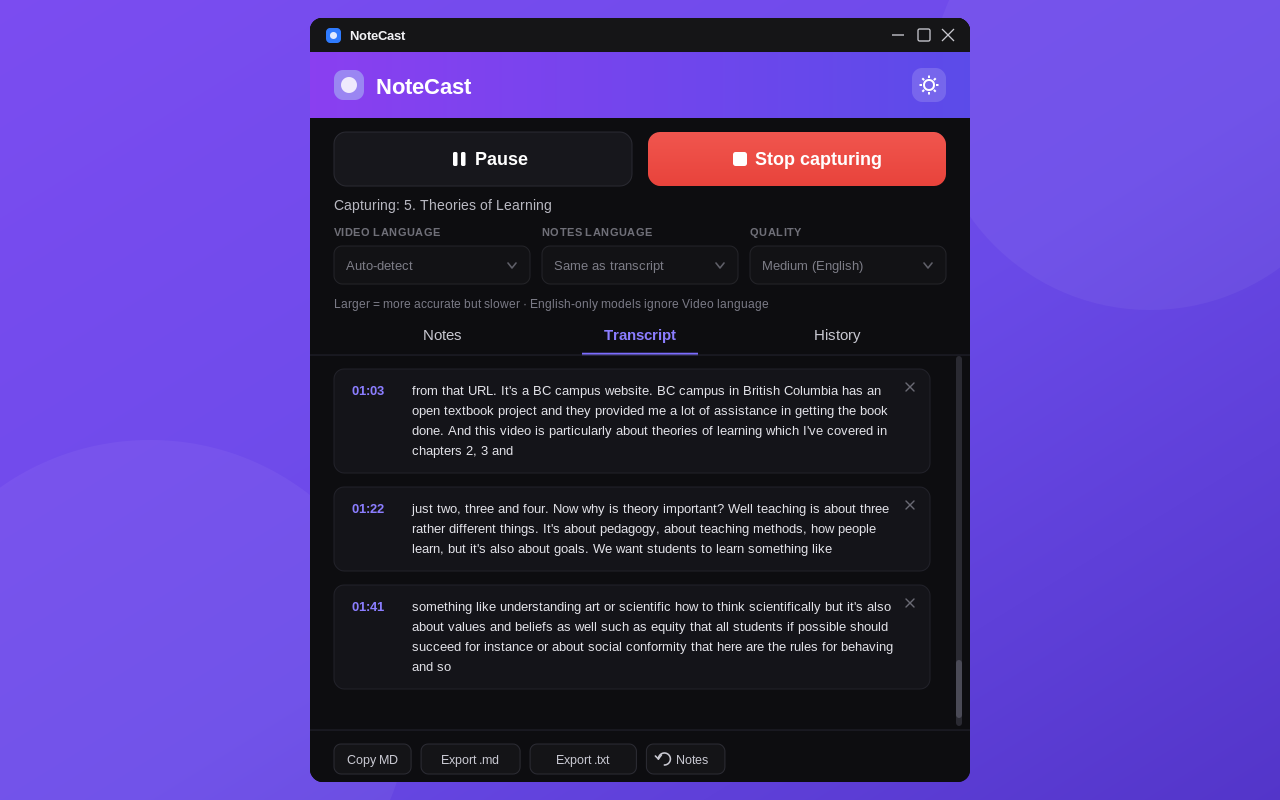
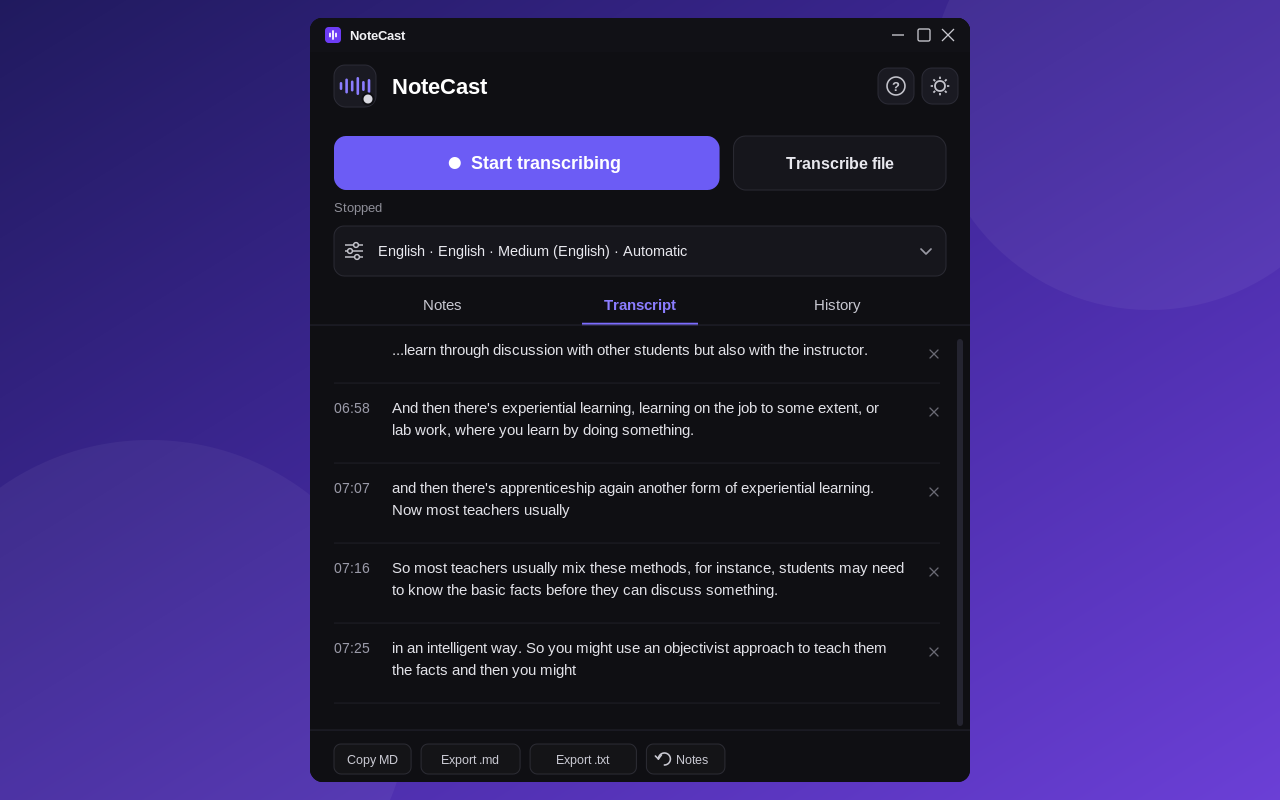
feat: refresh hero screenshots and add live transcribing slide
Replace the Notes, Transcript and History hero screenshots with updated
captures and add a fourth "Live" slide showing active transcription with
Pause/Stop controls and the GPU badge.

diff --git a/src/components/HeroMockup.tsx b/src/components/HeroMockup.tsx
@@ -1,5 +1,6 @@
 import { useEffect, useState } from 'react';
 import { AnimatePresence, motion, useReducedMotion } from 'framer-motion';
+import liveShot from '../assets/screen-live.png';
 import notesShot from '../assets/screen-notes.png';
 import transcriptShot from '../assets/screen-transcript.png';
 import historyShot from '../assets/screen-history.png';
@@ -14,19 +15,24 @@ import historyShot from '../assets/screen-history.png';
 
 const slides = [
   {
+    src: liveShot,
+    label: 'Live',
+    alt: 'NoteCast actively transcribing a lecture, with Pause and Stop controls, a GPU badge and time-stamped segments streaming into the Transcript tab.',
+  },
+  {
     src: notesShot,
     label: 'Notes',
-    alt: 'NoteCast Notes tab showing an auto-generated summary and key points for a lecture on theories of learning.',
+    alt: 'NoteCast Notes tab showing an auto-generated summary, key decisions and key points for a lecture on theories of learning.',
   },
   {
     src: transcriptShot,
     label: 'Transcript',
-    alt: 'NoteCast Transcript tab showing time-stamped, live transcription segments while capturing.',
+    alt: 'NoteCast Transcript tab showing the time-stamped segments of a finished capture, ready to review or export.',
   },
   {
     src: historyShot,
     label: 'History',
-    alt: 'NoteCast History tab listing a previously captured session with its date, duration and segment count.',
+    alt: 'NoteCast History tab listing previously captured sessions with their dates, durations and segment counts.',
   },
 ];
 